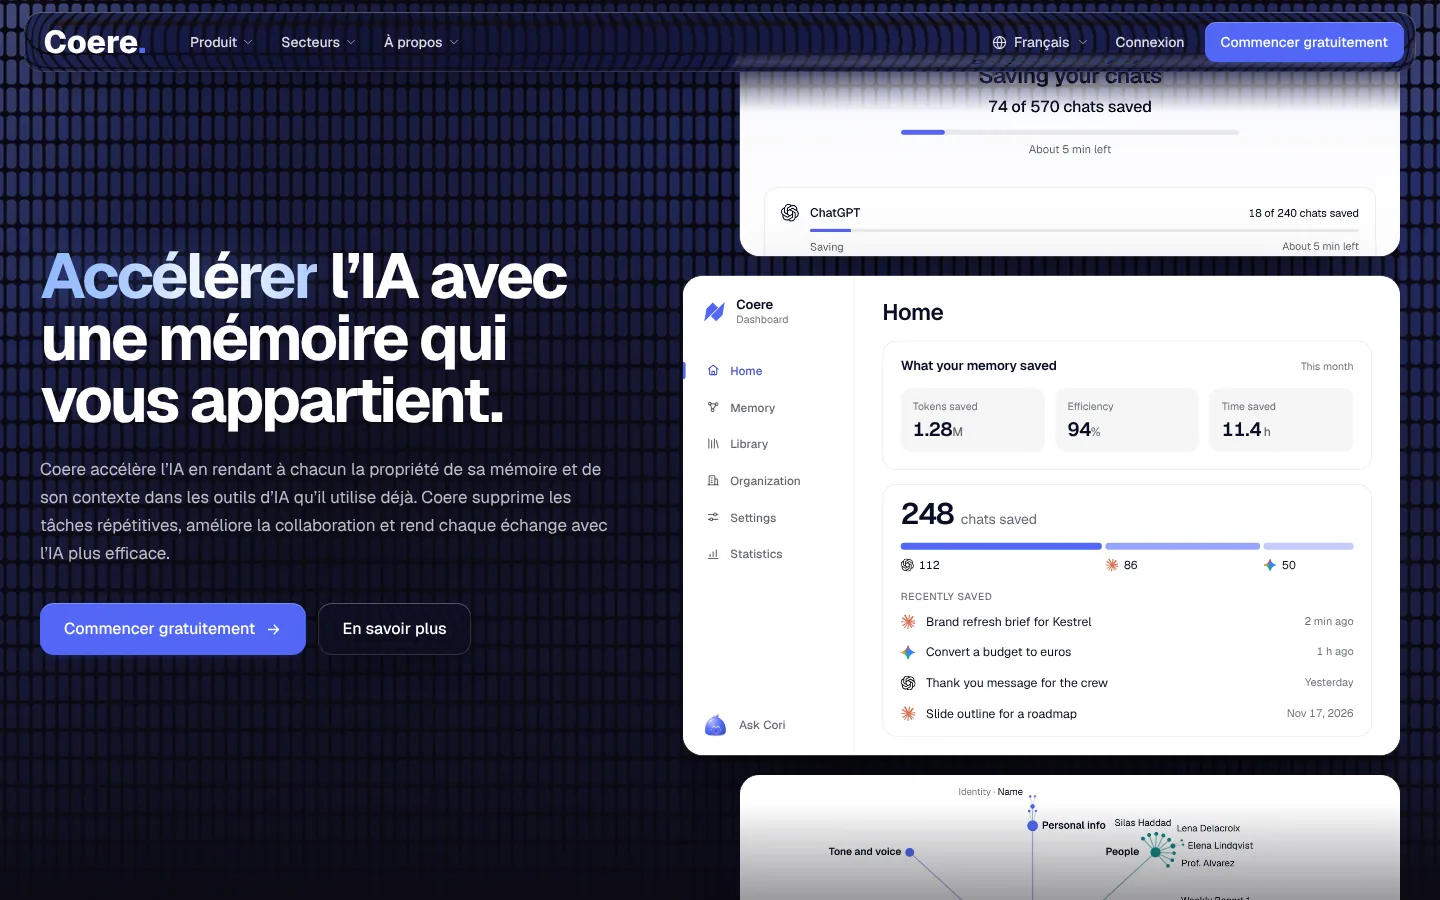
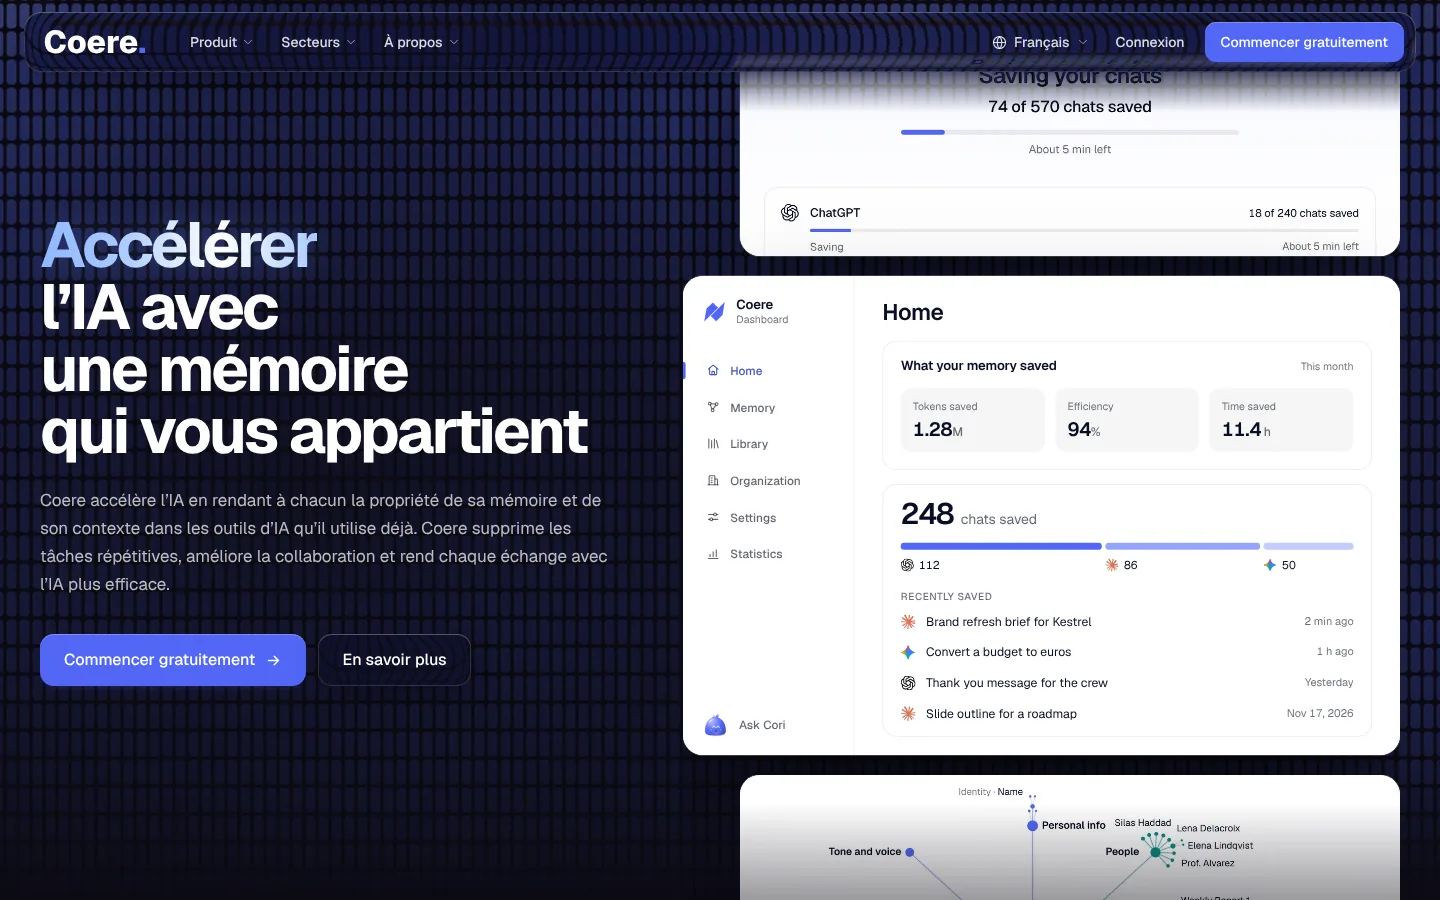
Set the home heading on three lines with no period
The owner wants Accelerating on its own line, then AI with memory, then you own, and no period. A bar in the heading text now starts a new line, so it breaks the same way at every width, in every language; the share image drops its period too.

Claude-Session: https://claude.ai/code/session_01Ur6uqNCXa3ecJ23BnM9D9o

Changed region(s): [[0.0, 0.2489, 0.4375, 0.7778], [0.9688, 0.0311, 1.0, 0.1556]]

diff --git a/src/site/home/hero.tsx b/src/site/home/hero.tsx
@@ -16,18 +16,26 @@ const ease = [0.22, 1, 0.36, 1] as const;
 /**
  * The owner's heading in the page's language, split round the word in
  * [brackets], which shimmers: "Accelerating" in English, wherever the verb
- * falls in another language.
+ * falls in another language. A "|" starts a new line, so the heading
+ * breaks where the owner wants it at every width.
  */
 function Heading({ title }: { title: string }) {
-  const [before, shimmer, after] = title.split(/\[|\]/);
-  if (shimmer === undefined) return title;
-  return (
-    <>
-      {before}
-      <span className="coere-shimmer">{shimmer}</span>
-      {after}
-    </>
-  );
+  return title.split("|").map((line, index) => {
+    const [before, shimmer, after] = line.split(/\[|\]/);
+    return (
+      <span key={index} className="block">
+        {shimmer === undefined ? (
+          line
+        ) : (
+          <>
+            {before}
+            <span className="coere-shimmer">{shimmer}</span>
+            {after}
+          </>
+        )}
+      </span>
+    );
+  });
 }
 
 /** Fades a piece of the hero up into place, each a beat after the last. */

diff --git a/src/site/i18n/messages/ja/home.ts b/src/site/i18n/messages/ja/home.ts
@@ -2,7 +2,7 @@ import type { Messages } from "../types";
 
 export const home: Messages["home"] = {
   hero: {
-    title: "あなたが所有する記憶で、AIを[加速する]。",
+    title: "あなたが所有する記憶で、|AIを[加速する]",
     paragraph:
       "Coereは、すでに使っているAIツールのあいだで、記憶とコンテキストの所有権をユーザー自身に渡すことで、AIを加速します。繰り返しの作業をなくし、コラボレーションを深め、AIとのあらゆるやりとりをより効果的にします。",
     extractionAlt: "Mayaのチャットを保存するCoere：570件中74件を保存済み、残り約5分、ChatGPTは240件中18件",

diff --git a/src/site/share/site-image.tsx b/src/site/share/site-image.tsx
@@ -46,7 +46,7 @@ export async function siteShareImage(): Promise<ImageResponse> {
           <div style={{ display: "flex", flexDirection: "column", color: "#fff", fontSize: 66, lineHeight: 1.02, letterSpacing: "-0.045em" }}>
             <span style={{ backgroundImage: "linear-gradient(90deg, #e6f1ff 0%, #b4d0ff 30%, #8fb8ff 58%, #5f78fb 100%)", backgroundClip: "text", color: "transparent", paddingBottom: 4 }}>Accelerating</span>
             <span>AI with memory</span>
-            <span>you own.</span>
+            <span>you own</span>
           </div>
           <div style={{ display: "flex", fontSize: 24, letterSpacing: "-0.01em", color: "rgba(255,255,255,0.55)" }}>coere.ai</div>
         </div>

diff --git a/src/site/i18n/messages/fr/home.ts b/src/site/i18n/messages/fr/home.ts
@@ -2,7 +2,7 @@ import type { Messages } from "../types";
 
 export const home: Messages["home"] = {
   hero: {
-    title: "[Accélérer] l’IA avec une mémoire qui vous appartient.",
+    title: "[Accélérer]|l’IA avec une mémoire|qui vous appartient",
     paragraph:
       "Coere accélère l’IA en rendant à chacun la propriété de sa mémoire et de son contexte dans les outils d’IA qu’il utilise déjà. Coere supprime les tâches répétitives, améliore la collaboration et rend chaque échange avec l’IA plus efficace.",
     extractionAlt: "Coere enregistre les conversations de Maya : 74 sur 570 enregistrées, environ 5 minutes restantes, et ChatGPT à 18 sur 240",

diff --git a/src/site/i18n/messages/en/home.ts b/src/site/i18n/messages/en/home.ts
@@ -1,8 +1,8 @@
 /** The home page, top to bottom. */
 export const home = {
   hero: {
-    /** The owner's heading. The word in [brackets] shimmers. */
-    title: "[Accelerating] AI with memory you own.",
+    /** The owner's heading. The word in [brackets] shimmers and each "|" starts a new line. */
+    title: "[Accelerating]|AI with memory|you own",
     /** The owner's paragraph, as he wrote it. */
     paragraph:
       "Coere accelerates AI by giving users ownership of their memory and context across the AI tools they already use. Coere eliminates repetitive work, improves collaboration, and makes every AI interaction more effective.",

diff --git a/src/site/i18n/messages/es/home.ts b/src/site/i18n/messages/es/home.ts
@@ -2,7 +2,7 @@ import type { Messages } from "../types";
 
 export const home: Messages["home"] = {
   hero: {
-    title: "[Aceleramos] la IA con una memoria que es tuya.",
+    title: "[Aceleramos]|la IA con una memoria|que es tuya",
     paragraph:
       "Coere acelera la IA al dar a cada persona la propiedad de su memoria y su contexto en las herramientas de IA que ya usa. Coere elimina el trabajo repetitivo, mejora la colaboración y hace que cada interacción con la IA sea más eficaz.",
     extractionAlt: "Coere guardando los chats de Maya: 74 de 570 chats guardados, quedan unos 5 minutos y ChatGPT va por 18 de 240",

diff --git a/src/site/i18n/messages/nl/home.ts b/src/site/i18n/messages/nl/home.ts
@@ -2,7 +2,7 @@ import type { Messages } from "../types";
 
 export const home: Messages["home"] = {
   hero: {
-    title: "[Versnel] AI met een geheugen dat van jou is.",
+    title: "[Versnel]|AI met een geheugen|dat van jou is",
     paragraph:
       "Coere versnelt AI door gebruikers eigenaar te maken van hun geheugen en context in de AI-tools die ze al gebruiken. Coere schrapt herhaald werk, verbetert de samenwerking en maakt elke interactie met AI effectiever.",
     extractionAlt: "Coere bewaart Maya's chats: 74 van 570 chats bewaard, nog ongeveer 5 minuten, en ChatGPT op 18 van 240",
